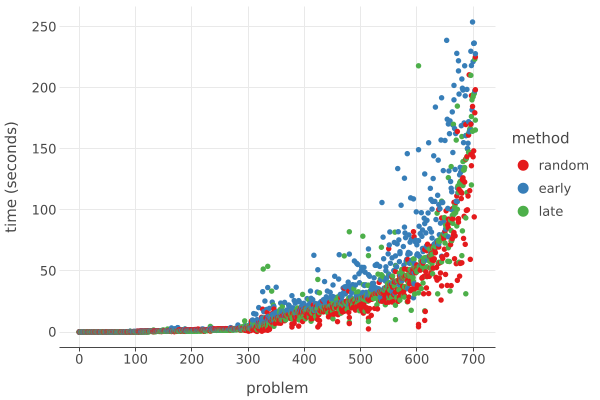
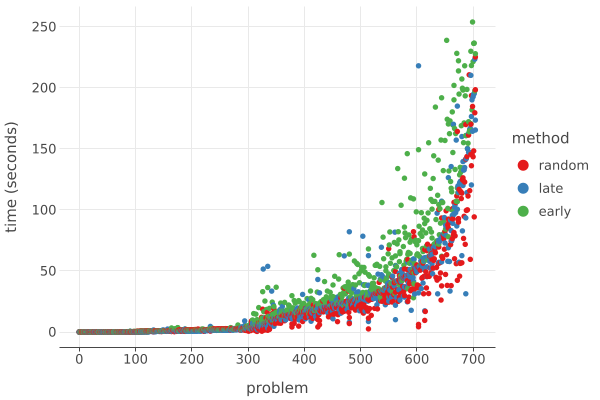
Fix legend in minimization-method instant time.png

diff --git a/src/main/kotlin/experiments/reconfiguration/ReconfigurationQuery2.kt b/src/main/kotlin/experiments/reconfiguration/ReconfigurationQuery2.kt
@@ -360,7 +360,13 @@ fun main() {
 //			x("problem")
 //			y("time")
 //			y.axis.name = "time (seconds)"
-//			color("method")
+//			color("method") {
+//				scale = categorical(
+//					"random" to Color.rgb(228, 26, 28),
+//					"late" to Color.rgb(55, 126, 184),
+//					"early" to Color.rgb(77, 175, 74)
+//				)
+//			}
 //			size = 2.5
 //		}
 //	}.save("v2/minimization-method instant time.png")
